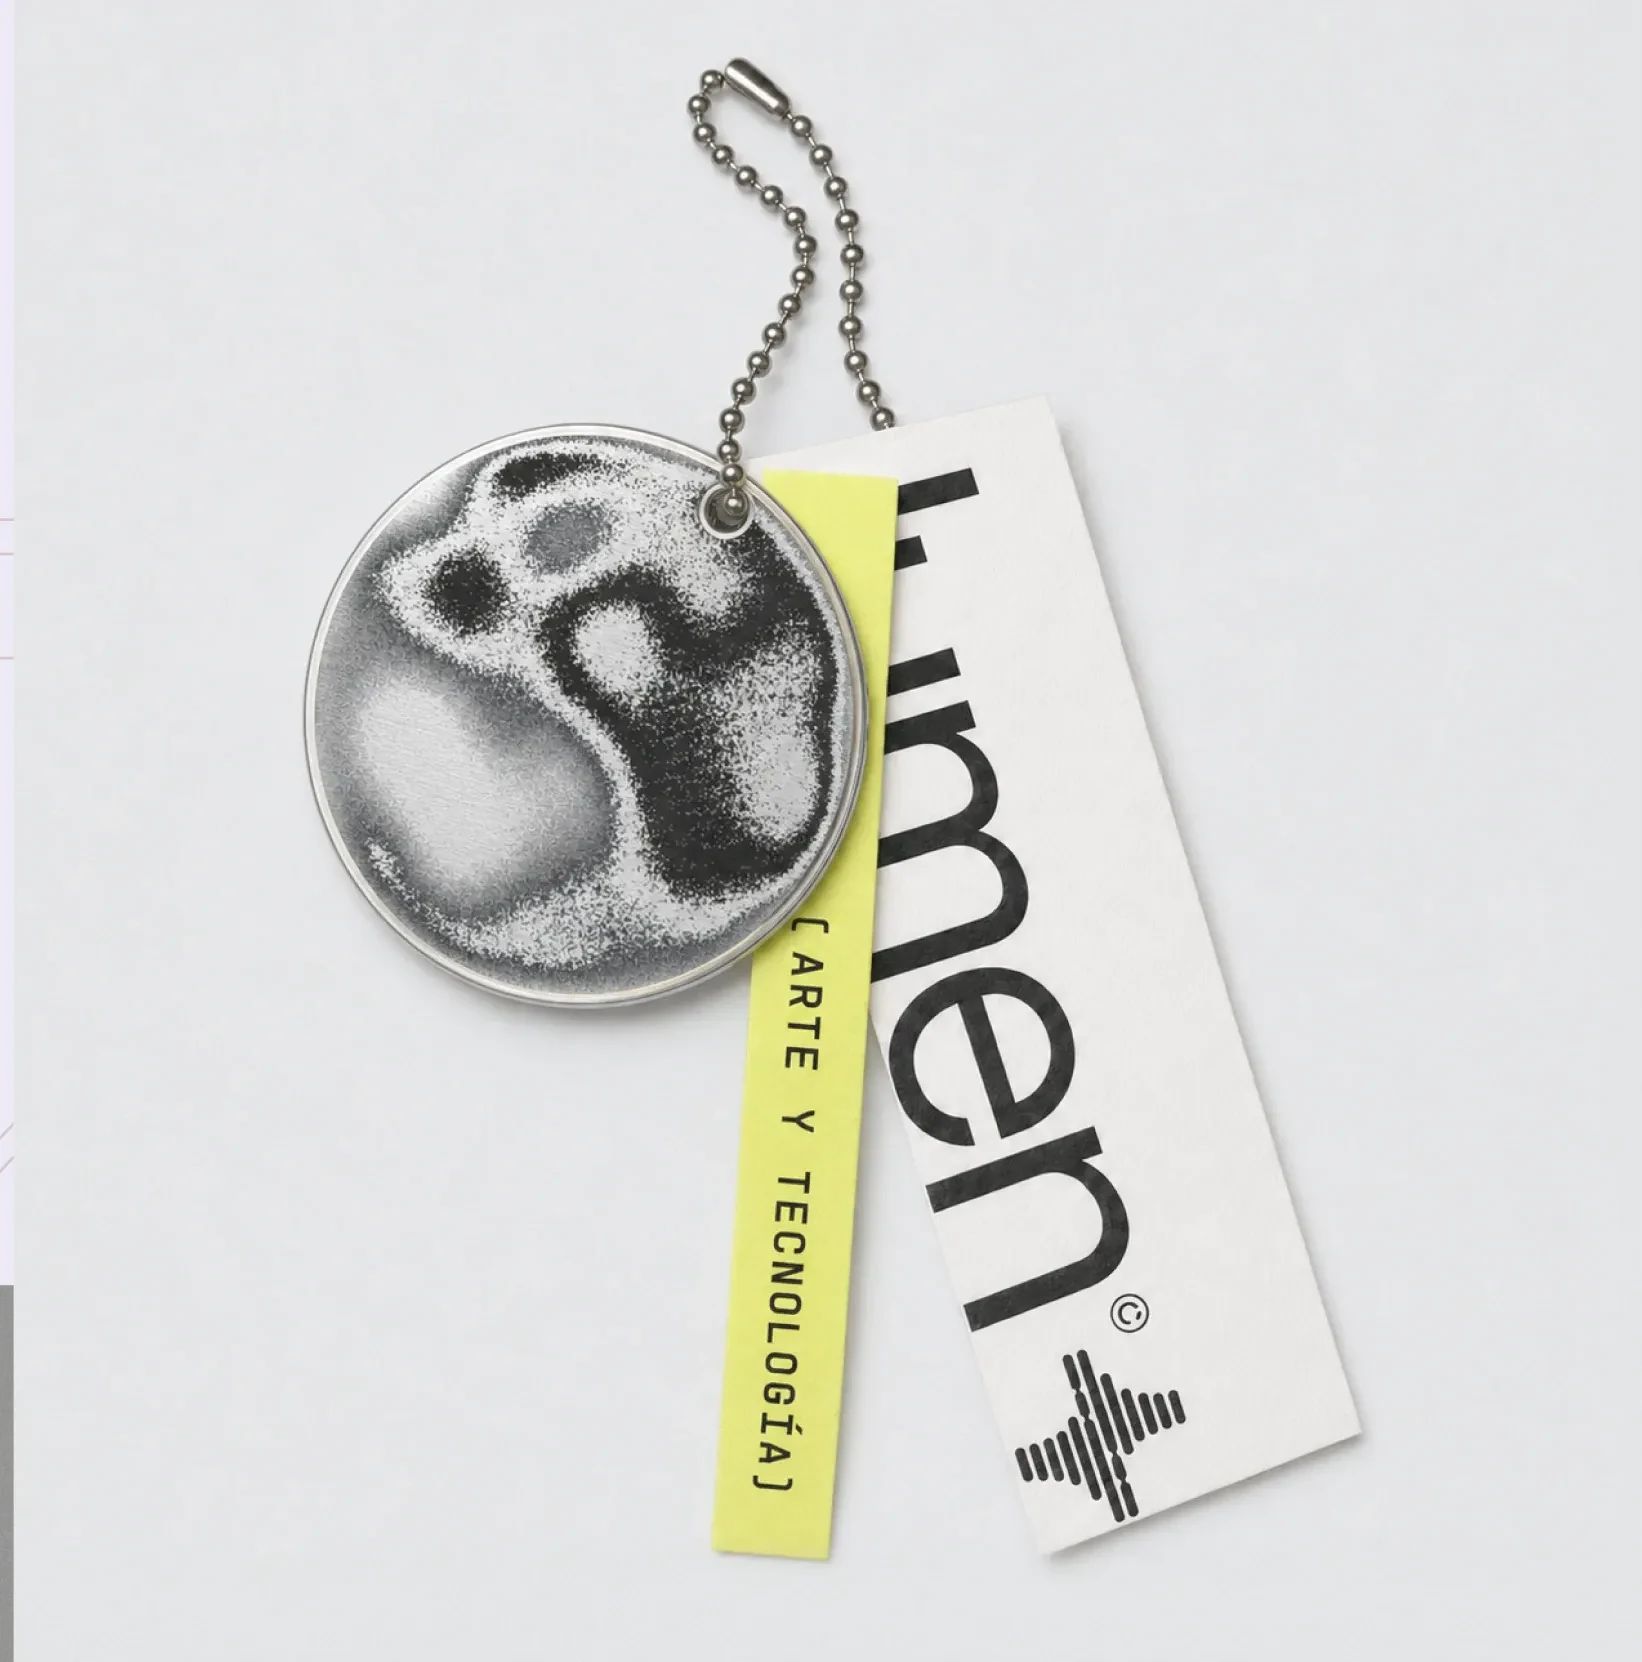
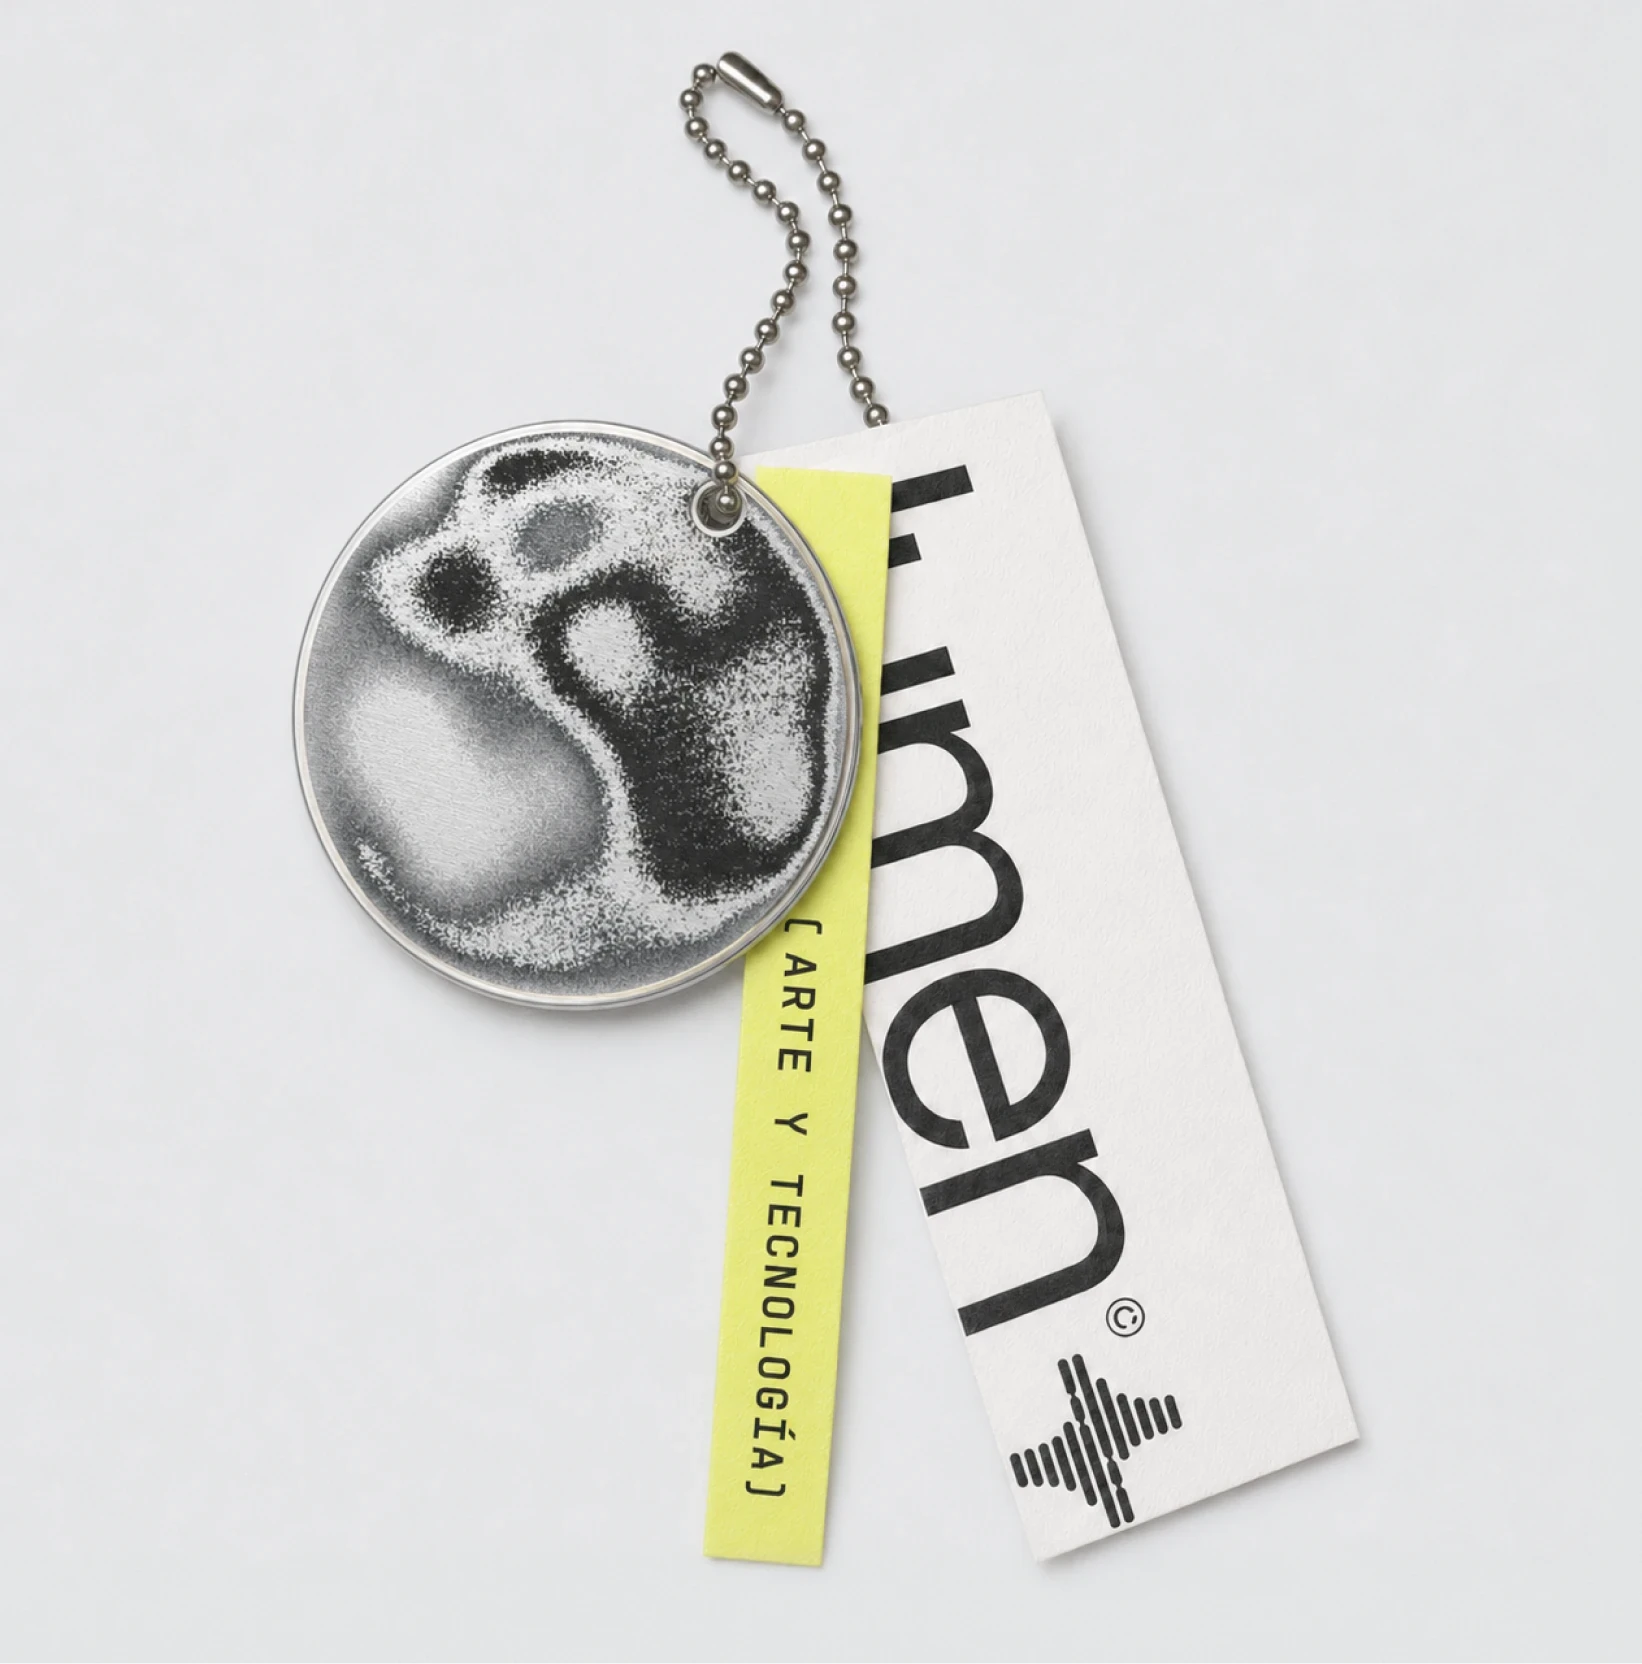
fix: imagen del llavero de lumen reemplazada por la versión sin bordes

Changed region(s): [[0.1553, 0.0307, 0.6523, 0.9513], [0.6212, 0.6751, 0.7454, 0.9206], [0.0, 0.7671, 0.0311, 1.0]]

diff --git a/src/data/imageMetadata.ts b/src/data/imageMetadata.ts
@@ -62,7 +62,7 @@ export const imageMetadata: Record<string, { width: number; height: number }> = 
   '/02_Projects/06_Lumen/06_Lumen.webp': { width: 1766, height: 2086 },
   '/02_Projects/06_Lumen/07_Lumen.webp': { width: 3109, height: 1793 },
   '/02_Projects/06_Lumen/08_Lumen.webp': { width: 3108, height: 1737 },
-  '/02_Projects/06_Lumen/09_Lumen.webp': { width: 1642, height: 1662 },
+  '/02_Projects/06_Lumen/09_Lumen.webp': { width: 1642, height: 1664 },
   '/02_Projects/06_Lumen/10_Lumen.webp': { width: 1411, height: 1664 },
   '/02_Projects/06_Lumen/11_Lumen.webp': { width: 1411, height: 1664 },
   '/02_Projects/06_Lumen/12_Lumen.webp': { width: 1411, height: 1664 },
